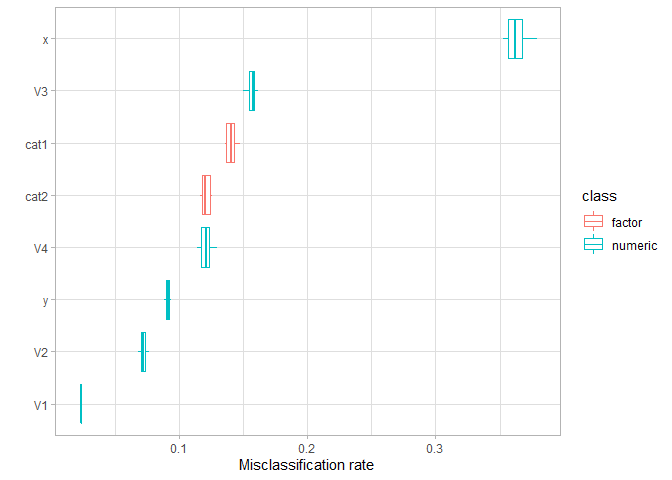
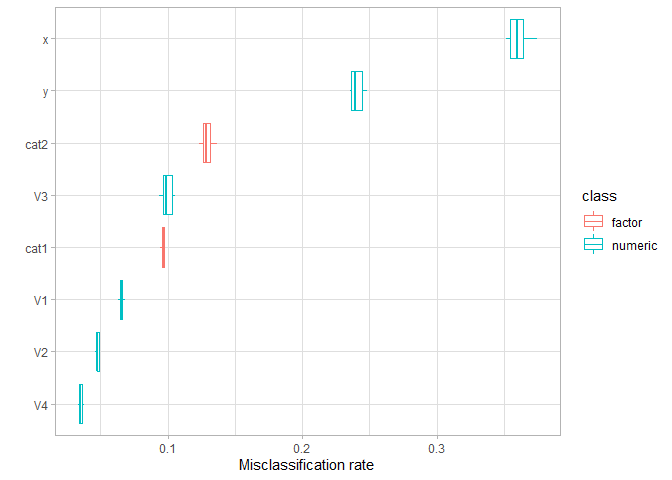
readme

diff --git a/README.md b/README.md
@@ -98,6 +98,7 @@ library(flexclust)
 #> Loading required package: stats4
 set.seed(10)
 res <- kcca(dat$data,k=4)
+set.seed(10)
 FeatureImp_res <- FeatureImpCluster(res,as.data.table(dat$data))
 plot(FeatureImp_res)
 ```
@@ -136,12 +137,12 @@ permutation, we can iterate over the different cluster runs (or both).
 This way there is a good chance that any spurious importance is
 identified as an outlier.
 
-For our example we repeat the clustering + feature importance
-calculation 5 times:
+For our example we repeat the clustering and feature importance
+calculation 20 times:
 
 ``` r
 set.seed(12)
-nr_seeds <- 5
+nr_seeds <- 20
 seeds_vec <- sample(1:1000,nr_seeds)
 
 savedImp <- data.frame(matrix(0,nr_seeds,dim(dat$data)[2]))
@@ -149,6 +150,7 @@ count <- 1
 for (s in seeds_vec) {
   set.seed(s)
   res <- kcca(dat$data,k=4)
+  set.seed(s)
   FeatureImp_res <- FeatureImpCluster(res,as.data.table(dat$data),sub = 1,biter = 1)
   savedImp[count,] <- FeatureImp_res$featureImp[sort(names(FeatureImp_res$featureImp))]
   count <- count + 1
@@ -205,6 +207,7 @@ First we’ll apply the clustering with an automatic estimation of
 
 ``` r
 library(clustMixType)
+set.seed(123)
 res <- kproto(x=ds,k=4)
 #> # NAs in variables:
 #>   V1   V2   V3   V4    x    y cat1 cat2 
@@ -221,6 +224,7 @@ type. While cat2 correctly has some importance, the one of cat1 is
 almost zero.
 
 ``` r
+set.seed(123)
 FeatureImp_res <- FeatureImpCluster(res,ds)
 plot(FeatureImp_res,ds,color="type")
 ```
@@ -232,24 +236,27 @@ partitioning. If, for some reason, we wanted partitions that emphasize
 differences between the categorical features, we’d have to increase
 **lambda**. The feature importance directly shows us the effect of this
 action: the two categorical features now have an equally high importance
-only somewhat smaller than x. As above, repeated partitioning could be
-used to compute a more reasonable importance for the data set and not
-only an importance for a specific partition.
+a bit smaller than x but much higher than y.
 
 ``` r
+set.seed(123)
 res2 <- kproto(x=ds,k=4,lambda=3)
 #> # NAs in variables:
 #>   V1   V2   V3   V4    x    y cat1 cat2 
 #>    0    0    0    0    0    0    0    0 
 #> 0 observation(s) with NAs.
+set.seed(123)
 plot(FeatureImpCluster(res2,ds),ds,color="type")
 ```
 
 <img src="man/figures/README-unnamed-chunk-11-1.png" width="100%" />
 
-Of course, further criteria should be used to determine an “optimal”
-**lambda** for the use case at hand - but certainly feature importance
-provides helpful guidance for data of mixed types.
+As above, repeated partitioning could be used to compute a more
+reasonable importance for the data set and not only an importance for a
+specific partition. Of course, further criteria should be used to
+determine an “optimal” **lambda** for the use case at hand - but
+certainly feature importance provides helpful guidance for data of mixed
+types.
 
 ## Other methods: kmeans(), pam() and ClustImpute()
 
